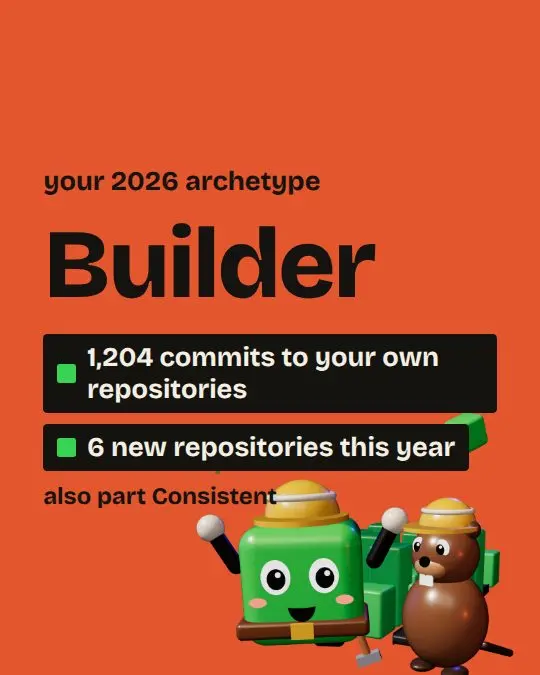
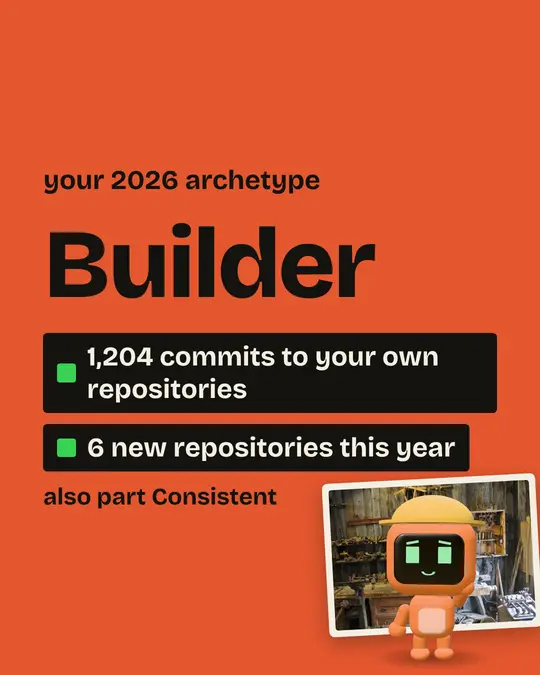
feat(web): show the new Cell and archetype art on every page
Archetype captions name each Cell's colour, gear and place; hero and Open Graph alt text describe the new hero; the landing sample reel is re-rendered from the composition.

diff --git a/apps/web/src/components/landing/sections.tsx b/apps/web/src/components/landing/sections.tsx
@@ -107,31 +107,35 @@ export function StorySection() {
   );
 }
 
-const ARCHETYPES: { id: ArchetypeId; sidekick: string; rule: string }[] = [
+const ARCHETYPES: { id: ArchetypeId; wears: string; rule: string }[] = [
   {
     id: "builder",
-    sidekick: "the beaver",
+    wears: "orange, in a hard hat, hammering in the workshop",
     rule: "You created at least two repositories, or made 50 or more commits to your own.",
   },
   {
     id: "consistent",
-    sidekick: "the ant",
+    wears: "green, in a sweatband, running laps on the track",
     rule: "You were active on at least 30% of the days so far.",
   },
-  { id: "explorer", sidekick: "the fox", rule: "You wrote in four or more languages." },
+  {
+    id: "explorer",
+    wears: "sky blue, cap and backpack, waving from the mountains",
+    rule: "You wrote in four or more languages.",
+  },
   {
     id: "collaborator",
-    sidekick: "the bee",
+    wears: "pink, in a headset, handing work on over a shared map",
     rule: "You left ten or more reviews, or opened ten or more pull requests on other people's repositories.",
   },
   {
     id: "night-owl",
-    sidekick: "the owl",
+    wears: "lavender, owl tufts and glasses, grooving over the city at night",
     rule: "At least 40% of your sampled commits landed between 22:00 and 04:00. Estimated, and labelled as such.",
   },
   {
     id: "open-sourcer",
-    sidekick: "the octopus",
+    wears: "teal, in a scarf, cheering by a community mural",
     rule: "You contributed to three or more public repositories you don't own.",
   },
 ];
@@ -150,17 +154,17 @@ export function ArchetypesSection() {
           </h2>
           <p className={`reveal mt-6 max-w-2xl ${lead}`}>
             The climax of the story names your archetype, with the facts that earned it. Each one
-            comes with Cell in costume and a sidekick. You get one, plus up to two runner-ups you
-            came close to. If none fits yet, the story says so honestly.
+            comes with its own Cell: its colour, its pose, its place. You get one, plus up to two
+            runner-ups you came close to. If none fits yet, the story says so honestly.
           </p>
         </div>
         <ul className="mt-14 grid gap-6 md:grid-cols-2 xl:grid-cols-3">
-          {ARCHETYPES.map(({ id, sidekick, rule }) => (
+          {ARCHETYPES.map(({ id, wears, rule }) => (
             <li key={id} className={`reveal-zoom overflow-hidden ${box} hover:border-muted`}>
               <div className="border-b border-line bg-canvas px-4 pt-4">
                 <Image
                   src={`/art/skin-${id}.png`}
-                  alt={`Cell dressed as the ${ARCHETYPE_LABELS[id]}, with ${sidekick}`}
+                  alt={`Cell as the ${ARCHETYPE_LABELS[id]}: ${wears}`}
                   width={1200}
                   height={900}
                   sizes="(min-width: 1280px) 30vw, (min-width: 768px) 45vw, 90vw"
@@ -169,7 +173,7 @@ export function ArchetypesSection() {
               </div>
               <div className="p-5">
                 <h3 className="text-2xl font-bold">{ARCHETYPE_LABELS[id]}</h3>
-                <p className="text-sm text-muted">with {sidekick}</p>
+                <p className="text-sm text-muted">{wears}</p>
                 <p className="mt-3 text-base text-muted">{rule}</p>
               </div>
             </li>

diff --git a/apps/web/src/app/recap/story-flow.tsx b/apps/web/src/app/recap/story-flow.tsx
@@ -257,7 +257,7 @@ export function StoryFlow({ data }: { data: RecapData }) {
             <div className="grid w-full max-w-5xl items-center gap-8 lg:grid-cols-[1.1fr_1fr]">
               <ComicArt
                 art="hero-cast"
-                alt="Cell the builder waving in front of a 3D contribution graph, with a beaver, an owl and a bee"
+                alt="Cell, the WrapYourGit mascot, waving in front of snapshots of a workshop, fireworks and mountains"
                 priority
               />
               <div className="flex flex-col items-start gap-5">

diff --git a/apps/web/src/app/page.tsx b/apps/web/src/app/page.tsx
@@ -145,7 +145,7 @@ export default function Home({ searchParams }: PageProps<"/">) {
                 <div>
                   <Image
                     src="/art/hero-cast.png"
-                    alt="Cell the builder waving in front of a 3D contribution graph, with a beaver, an owl and a bee"
+                    alt="Cell, the WrapYourGit mascot, waving in front of snapshots of a workshop, fireworks and mountains"
                     width={1200}
                     height={900}
                     preload

diff --git a/apps/web/src/app/opengraph-image.tsx b/apps/web/src/app/opengraph-image.tsx
@@ -4,7 +4,7 @@ import { ImageResponse } from "next/og";
 import { CARD_SIZE, cardFonts } from "@/server/card";
 
 export const alt =
-  "WrapYourGit: every green square has a story. Cell and friends in front of a contribution graph.";
+  "WrapYourGit: every green square has a story. Cell waving in front of snapshots of a workshop, fireworks and mountains.";
 export const size = CARD_SIZE;
 export const contentType = "image/png";
 

diff --git a/apps/web/src/app/dashboard/sync-form.tsx b/apps/web/src/app/dashboard/sync-form.tsx
@@ -48,7 +48,7 @@ export function SyncForm({
         {pending && (
           <>
             <Image
-              src="/art/cell-think.png"
+              src="/art/cutout-cell-think.png"
               alt=""
               width={1200}
               height={900}
